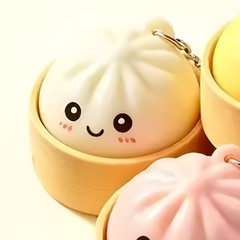
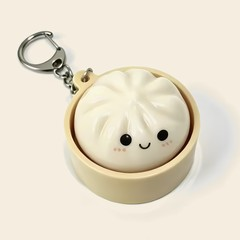
Steamed Bun Keychain: use the real colour photos (yellow, pink, white, purple, green)
- Replaced the cropped group-photo options with the supplier's per-colour photos, enlarged, on cream
- Main photo shows all five colours; description, details and tests updated

Claude-Session: https://claude.ai/code/session_01HZWAvbY9DuXc5XbQfyfu18

diff --git a/tests/functions.test.js b/tests/functions.test.js
@@ -305,11 +305,11 @@ test('home page banner: every banner photo exists and the order is candle, flora
   }
 });
 
-test('the steamed bun keychain is in accessories at $9.95 with four colours', () => {
+test('the steamed bun keychain is in accessories at $9.95 with five colours', () => {
   const p = catalog.products.find((x) => x.id === 'steamed-bun-keychain');
   assert.equal(p.price, 995);
   assert.deepEqual(p.categories, ['accessories']);
-  assert.deepEqual(p.options.values.map((v) => v.id), ['white', 'yellow', 'pink', 'blue']);
+  assert.deepEqual(p.options.values.map((v) => v.id), ['yellow', 'pink', 'white', 'purple', 'green']);
   assert.equal(priceCart(catalog, [{ id: p.id, option: 'pink', qty: 1 }]).lines[0].unitAmount, 995);
   assert.ok(priceCart(catalog, [{ id: p.id, qty: 1 }]).error, 'a colour must be chosen');
 });
